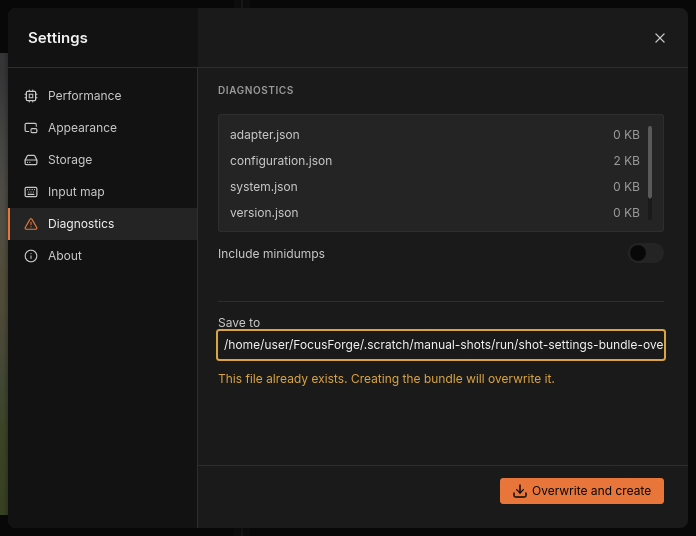
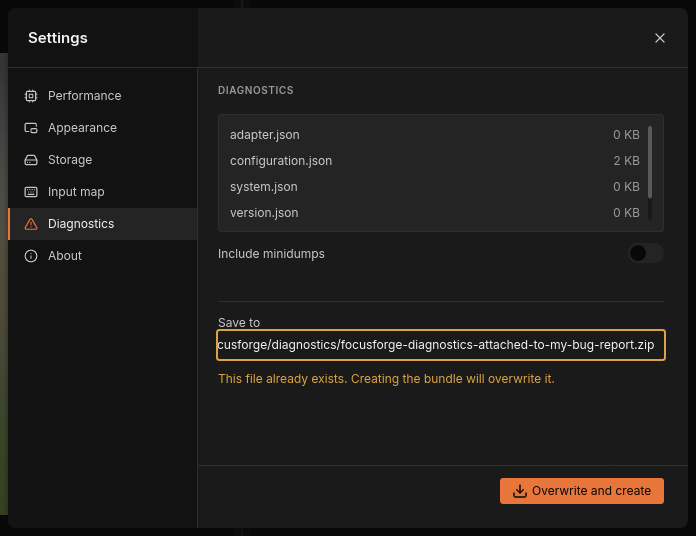
docs(manual): depth of field and failure images chapters with regenerable examples
Part I's first and third chapters: what depth of field is, why it collapses at
macro magnification and what stacking does, then halos, motion and focus gaps
with how to recognise, avoid and repair each. Their example images come from
the mantis fixture through focusforge-cli; tools/manual-examples.py rebuilds
them byte for byte and --check compares them with the committed ones.

Changed region(s): [[0.3017, 0.6269, 0.9655, 0.6567]]

diff --git a/tools/manual-examples.py b/tools/manual-examples.py
@@ -19,11 +19,21 @@ focus order) and from FocusForge's own fusion:
      `--cpu` keeps reruns byte-identical (a GPU adapter may differ by 1 LSB).
   3. `focusforge-cli export` writes the composite, the Z-Map and, with
      `--frame`, single source frames warped and cropped to the composite's own
-     geometry, all as 16-bit TIFF without EXIF or ICC.
+     geometry, as 16-bit TIFF; `focusforge-cli retouch` applies the one brush
+     stroke the halo repair example shows.
   4. This script crops the declared window, places panels side by side, and
      encodes a baseline JPEG itself (standard tables, no metadata segment
      beyond the JFIF header), so the bytes depend only on the pixels.
-  5. Finished images are moved into `docs/assets/manual/<chapter>/`.
+  5. Finished images are moved into `docs/assets/manual/<chapter>/`:
+       depth-of-field/source-frames.jpg   depth-of-field/composite.jpg
+       failure-images/halo-methods.jpg    failure-images/halo-retouch.jpg
+       failure-images/motion.jpg          failure-images/focus-gap.jpg
+
+Each group's function below declares its frames, windows and flags with the
+reason for them. A full run takes about ten minutes with a debug build (the
+alignment runs dominate); pass `--cli target/release/focusforge-cli` to use a
+release build instead, and `--check` to confirm that it reproduces the
+committed images.
 
 `--check` does steps 1-4 and compares the result with the committed images
 instead of moving anything; it exits 1 on any difference. `--cli` names the
@@ -571,6 +581,7 @@ def main(argv: list[str]) -> int:
     parser.add_argument("--cli", default=os.path.join(REPO, "target", "debug", "focusforge-cli"))
     parser.add_argument("--check", action="store_true", help="compare with the committed images, write nothing")
     args = parser.parse_args(argv)
+    sys.stdout.reconfigure(line_buffering=True)
     unknown = [g for g in args.groups if g not in GROUPS]
     if unknown:
         parser.error(f"unknown group {', '.join(unknown)}; choose from {', '.join(GROUPS)}")

diff --git a/docs/stacking/depth-of-field.md b/docs/stacking/depth-of-field.md
@@ -153,27 +153,34 @@ slice, and the software assembles the sharp parts into one image, the
 ### An example
 
 The pictures below are 1:1 crops (one image pixel per screen pixel) of one
-window of a series of a praying mantis's head, shot with the focus moving
-from front to back. FocusForge's sample stack keeps eight frames of that
-series, numbered 00 to 07 in focus order.
+window of a 61-frame series of a praying mantis's head, shot with the focus
+moving from front to back. The examples in this book use eight of those
+frames, spread evenly over the series and numbered 00 to 07 in focus order.
 
 ![Three crops of the same window of the mantis's head, side by side. Left: the antenna is sharp, the rim of the head is soft. Middle: the rim of the head and its fine hairs are sharp, the antenna is a broad soft band. Right: nothing in the window is sharp.](../assets/manual/depth-of-field/source-frames.jpg)
 
-*Single frames 02, 03 and 05 of the sample stack: frame 02 is sharp on the antenna, frame 03 on the rim of the head, frame 05 is focused behind the head.*
+*Single frames 02, 03 and 05 of the eight: frame 02 is sharp on the antenna, frame 03 on the rim of the head, frame 05 is focused behind the head.*
 
 Each frame is sharp in a different band. In frame 02 the antenna stands out
 and the head behind it is soft; one step further, in frame 03, the rim of the
 head and its hairs are sharp and the antenna has dissolved into a pale band.
 By frame 05 the focus has moved past the head altogether.
 
-![Two images side by side. Left: the composite, with the antenna and the hairs on the rim of the head both sharp. Right: the same window coloured by source frame: orange along the antenna, blue along the rim of the head, grey elsewhere.](../assets/manual/depth-of-field/composite.jpg)
+![Two images side by side. Left: the composite, with the antenna and the hairs on the rim of the head both sharp. Right: the same window coloured by source frame: orange along the antenna, blue along the rim of the head and over much of the rest, with grey patches.](../assets/manual/depth-of-field/composite.jpg)
 
-*Left: the FocusForge composite of all eight frames (Details method, default settings). Right: its Z-Map, orange where a pixel came from frame 02, blue for frame 03, grey for any other frame.*
+*Left: the FocusForge composite of all eight frames (Details method, default settings). Right: its Z-Map, orange where a pixel came from frame 02, blue for frame 03, grey for any of the other six frames.*
 
 The composite has the antenna from frame 02 and the rim from frame 03, both
-sharp, in one picture. The Z-Map on the right shows how it was assembled. In
-the smooth background, where no frame has any detail, the choice of frame
-hardly matters, and the map there is a scatter of other frames.
+sharp, in one picture. The Z-Map on the right shows how it was assembled: the
+antenna is orange, the rim and its hairs blue. In the smooth background and
+on the soft surface of the head, where no frame has real detail, the choice
+of frame hardly matters, and the map there is a patchwork of frame 03 and
+other frames.
+
+Look closely where the antenna crosses the rim: there the sharp rim won, and
+the antenna looks soft and see-through for a short stretch. That is a typical
+depth-edge problem, and [Common failure images](failure-images.md#halos-at-depth-edges)
+shows how to repair it with one brush stroke.
 
 ## What stacking cannot do
 

diff --git a/docs/stacking/failure-images.md b/docs/stacking/failure-images.md
@@ -9,10 +9,11 @@ For each failure this chapter shows an example, then answers four questions:
 what you see, why it happens, how to avoid it when shooting, and how to
 repair it.
 
-The examples are 1:1 crops (one image pixel per screen pixel) fused by
-FocusForge from its sample stack: eight frames, numbered 00 to 07 in focus
-order, taken from a series of a praying mantis's head. The
-[previous chapter](depth-of-field.md#an-example) introduces them.
+The examples are crops fused by FocusForge from the eight frames of a
+praying mantis's head, numbered 00 to 07 in focus order, that the chapter
+[Depth of field and why stack](depth-of-field.md#an-example) introduces. They are shown at 1:1 (one image pixel per screen pixel) unless a
+caption says otherwise. The motion example is simulated by moving frames in
+software, and its caption says so.
 
 > **Tip:** Judge a composite at 100 %. All three failures are easy to miss
 > in a small preview. In the window, the bottom bar's **Overlay** colours the
@@ -22,7 +23,7 @@ order, taken from a series of a praying mantis's head. The
 
 ## Halos at depth edges
 
-![Three crops of the same window side by side: an antenna against a dark grey background, above the pale rim of the mantis's head. Left: clean edges. Middle: a dark band along the rim of the head and a softer antenna. Right: dark blotches beside the antenna and along the rim, and patches in the smooth areas.](../assets/manual/failure-images/halo-methods.jpg)
+![Three crops of the same window side by side: an antenna against a dark grey background, above the pale rim of the mantis's head. Left: the cleanest edges. Middle: a dark band along the rim of the head and a softer antenna. Right: dark blotches beside the antenna and along the rim, and patches in the smooth areas.](../assets/manual/failure-images/halo-methods.jpg)
 
 *The same eight frames fused with default settings by each method. Left: Details. Middle: Soft transitions, with a dark band along the rim. Right: Focus map, with dark blotches beside the antenna and the rim.*
 
@@ -154,10 +155,10 @@ series or calm moments. All of this is covered in
 
 *Left: all eight frames. Right: the same stack without frame 02, the only frame with the antenna in focus, so the step from frame 01 to frame 03 is twice as large. Alignment is off for both, so the two crops match pixel for pixel.*
 
-> **Note:** The sample stack itself is a thinned series: it keeps only every
-> eighth or ninth of the 61 frames the photographer took. That is why, in
-> every example on these pages, the face of the mantis below the rim stays
-> soft: the frames that held it sharp are not in the sample.
+> **Note:** The eight frames are themselves a thinned series: every eighth
+> or ninth of the 61 frames the photographer took. That is the most likely
+> reason why, in every example on these pages, the face of the mantis below
+> the rim stays soft: none of the eight has it in focus.
 
 ### What you see
 

diff --git a/tools/README.md b/tools/README.md
@@ -42,6 +42,8 @@ prerequisites when run on Linux.
 | `cargo nextest run -p focusforge-gpu --features gpu-tests --profile gpu` | The GPU/CPU parity suite, under `with-lock.sh gpu` — over an hour, so never in a gate. The `gpu` profile in `.config/nextest.toml` runs one test at a time, prints `SLOW` every minute per running test, kills a test past its limit as a named `TIMEOUT`, reports a crash as its signal with the test name, and writes per-test durations to `target/nextest/gpu/junit.xml`. |
 | `lib/run-logged.sh` | The logging mechanism the gates share: each gate's full output to its own file, two bounded lines to stdout. |
 | `run-logged.sh "<name>" -- <cmd>` | The same treatment for a one-off noisy command. |
+| `check-book-links.py [BOOK_DIR]` | Walks a built mdBook (default `book/`, from `mdbook build`) and reports every relative `href`/`src` whose target is missing from the output and every `#fragment` that names no id on its target page. External links are not fetched. Exit 0 all resolve, 1 something is broken, 2 no built book. The book workflow runs it after the build. |
+| `manual-examples.py [GROUP...] [--cli PATH] [--check]` | Regenerates the manual's Part I example images (`docs/assets/manual/depth-of-field/`, `failure-images/`) from `fixtures/mantis-512` through `focusforge-cli` (CPU, no cache), byte for byte; groups `depth-of-field`, `halos`, `motion`, `gaps`. `--check` rebuilds into `.scratch/` and compares with the committed images instead of replacing them. Standard library only. |
 | `make-logo-assets.sh` | Rasterises the brand SVGs in `assets/` into `assets/build/`: the PNG ladder, the hicolor tree, `focusforge.ico`, `focusforge.icns` and the repository page images. Picks the small-size cut at 32 px and under. Skips until `assets/logo.svg` exists. |
 | `lib/write-icns.py` | Packs PNGs into a macOS `.icns` suite and reads its own output back to verify it. Exists because the ImageMagick build here has no ICNS coder. |
 | `lib/make-wordmark.py` | Authoring step, not part of the build: sets the wordmark in Inter, bakes the text to paths and rewrites the four lockup SVGs in `assets/`. Run it by hand when the type or the proportions change. |

diff --git a/docs/guide/diagnostics.md b/docs/guide/diagnostics.md
@@ -105,10 +105,11 @@ its size: in whole kilobytes below a megabyte (so a small file reads
 "0 KB"), with one decimal above. The list scrolls inside its box when it
 holds more rows than fit.
 
-FocusForge gathers the list in the background, so the section opens at once
-showing "Collecting…" and fills in a moment later. **Create bundle** stays
-unavailable until the list is complete; the switch and the **Save to** field
-can be used meanwhile.
+FocusForge gathers the list in the background, from the moment it starts,
+so the section may show "Collecting…" for a moment before the list fills
+in. It gathers the list again when you switch **Include minidumps**.
+**Create bundle** stays unavailable until the list is complete; the switch
+and the **Save to** field can be used meanwhile.
 
 | Entry | What it holds |
 | --- | --- |
@@ -164,7 +165,7 @@ Creating the bundle will overwrite it." and the button becomes **Overwrite
 and create**. Click it to replace the file, or change the path to keep the
 old one.
 
-![The Diagnostics section with an amber Save to field naming focusforge-diagnostics-support.zip, the amber line "This file already exists. Creating the bundle will overwrite it." and the button Overwrite and create](../assets/manual/settings-window/settings-bundle-overwrite.png)
+![The Diagnostics section with an amber Save to field ending in focusforge-diagnostics-attached-to-my-bug-report.zip, the amber line "This file already exists. Creating the bundle will overwrite it." and the button Overwrite and create](../assets/manual/settings-window/settings-bundle-overwrite.png)
 
 *A path that already exists: the button changes to **Overwrite and create**.*
 

diff --git a/docs/guide/settings-window.md b/docs/guide/settings-window.md
@@ -56,7 +56,7 @@ the accepted values.
 on the graphics card or on the processor only, and how much memory it may
 take.
 
-![The Performance section: under PROCESSING the GPU processing switch is on and Backend is empty; under LIMITS the Host memory cap and VRAM cap fields show "No cap", Host budget reads 2.2 GiB and VRAM budget reads "Not probed yet"](../assets/manual/settings-window/settings-performance.png)
+![The Performance section: under PROCESSING the GPU processing switch is on and Backend is empty; under LIMITS the Host memory cap and VRAM cap fields show "No cap", Host budget shows a size in GiB and VRAM budget reads "Not probed yet"](../assets/manual/settings-window/settings-performance.png)
 
 *Performance before the first fuse of the session. Your budget figures
 depend on your computer.*
